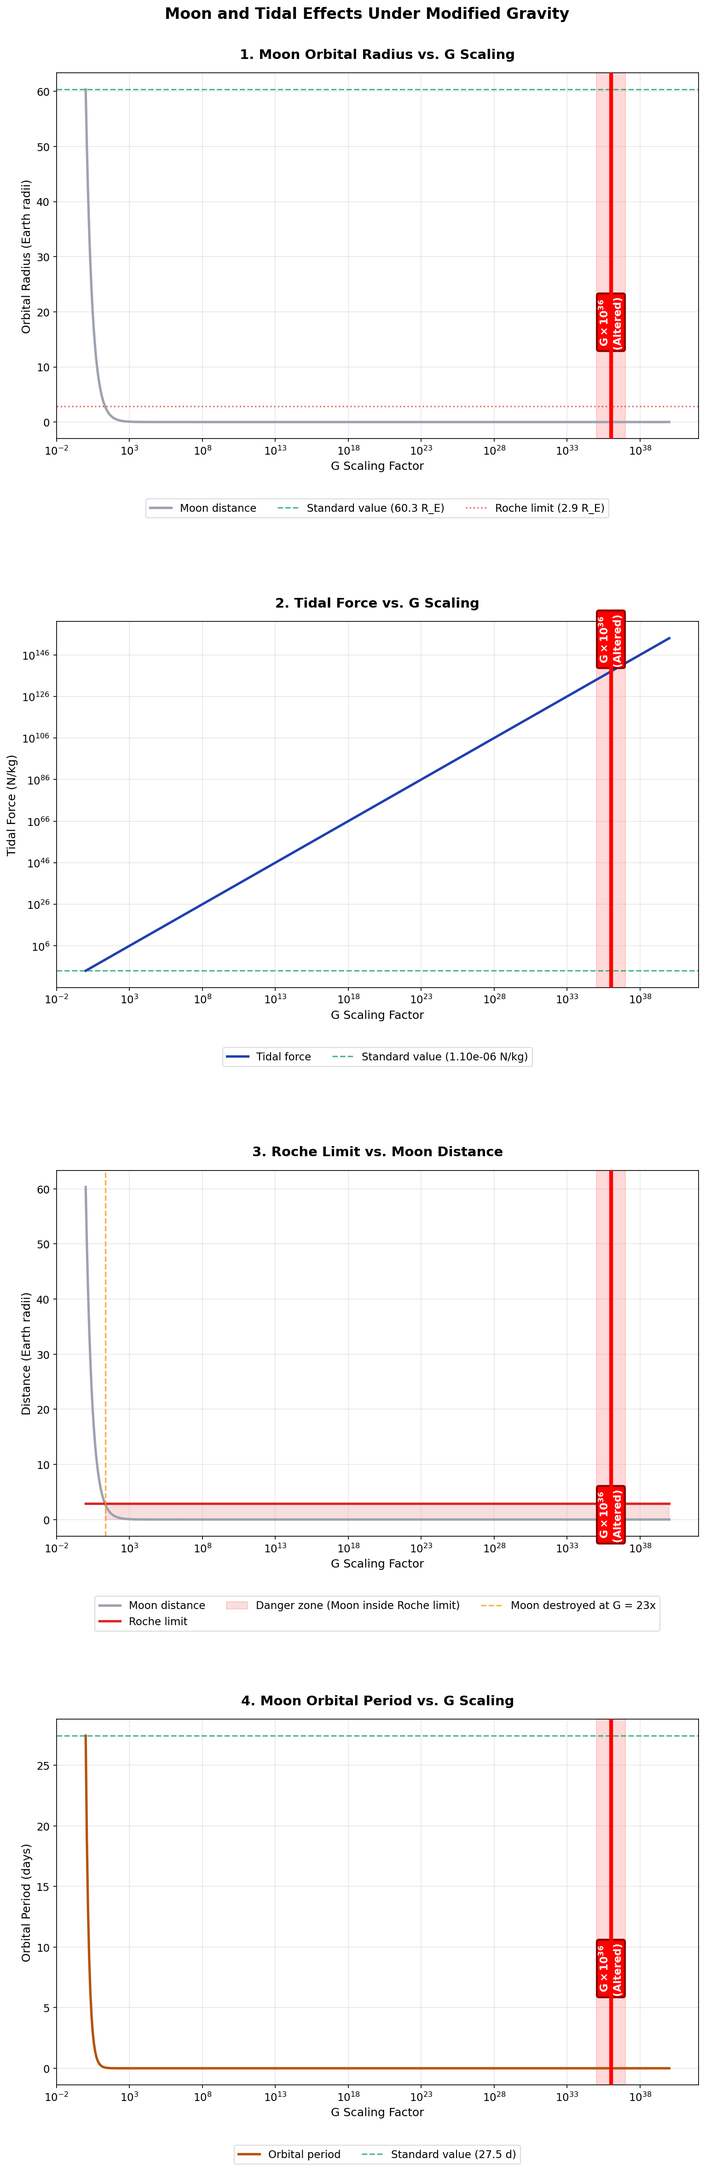
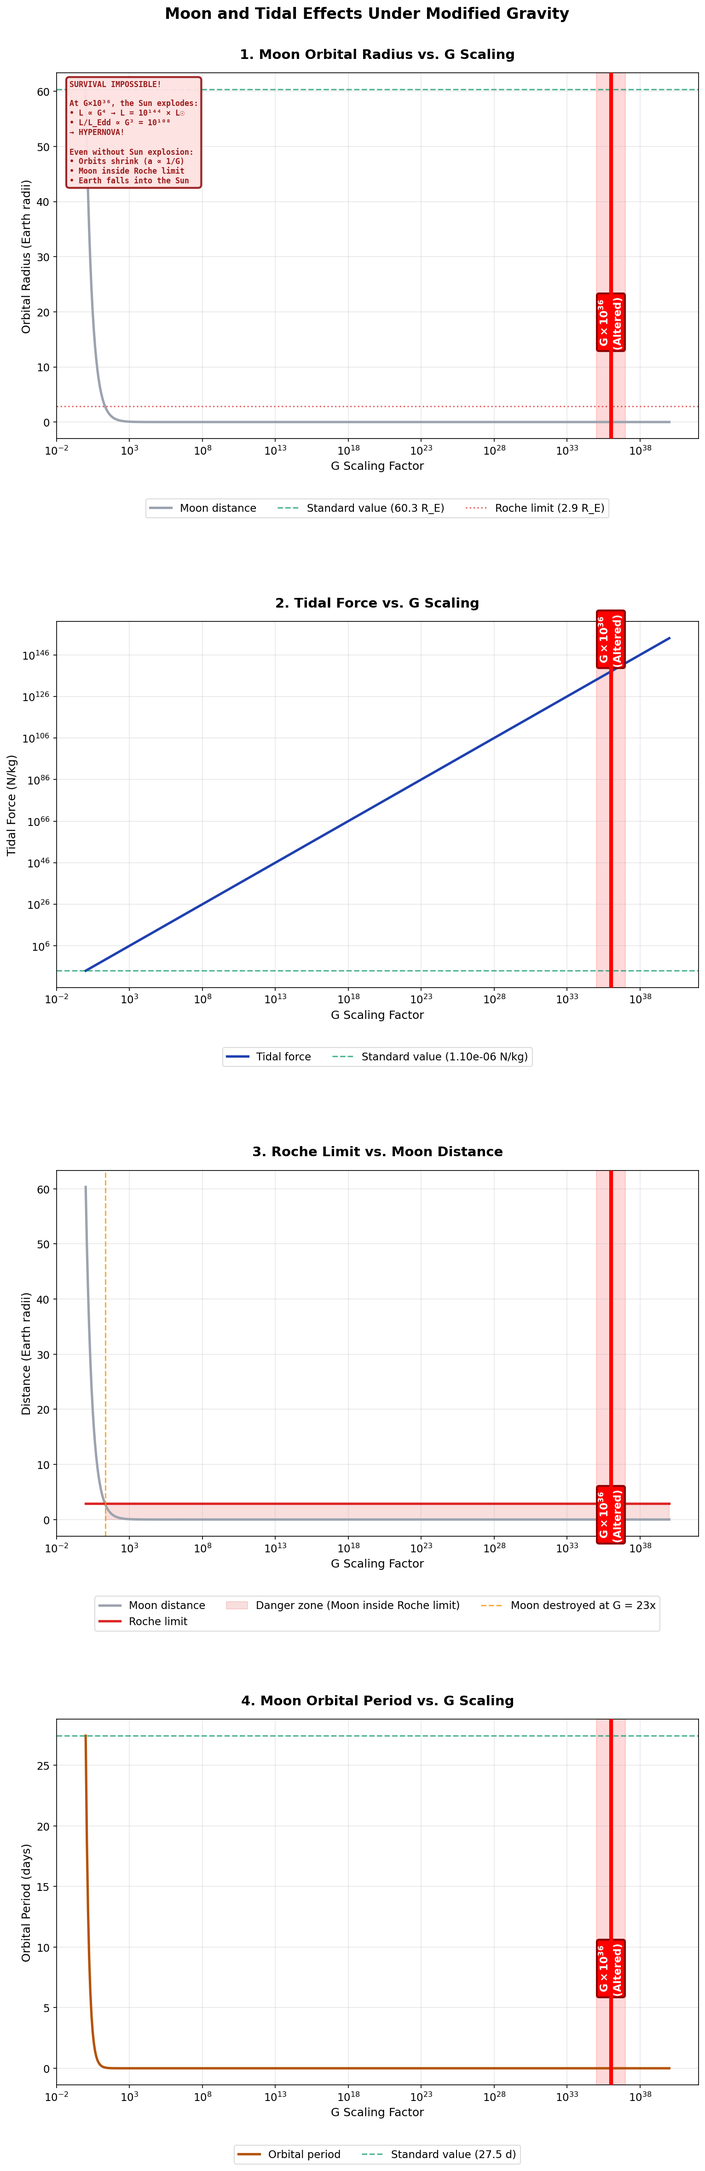
Add Sun explosion & planetary survival warnings (Peer Review 2)
Based on reviewer feedback explaining why increasing G ALWAYS
destroys the Sun and makes planetary survival impossible.

Solar Physics (solar_physics.py):
- Added "SUN EXPLODES AT G×10³⁶" warning box with formulas:
  • L ∝ G⁴ → L = 10¹⁴⁴ × L☉
  • L_Edd ∝ G → L/L_Edd ∝ G³ = 10¹⁰⁸
  • Sun exceeds Eddington limit by factor 10¹⁰⁸ → HYPERNOVA
- Added Eddington instability explanation to lifetime plots

Orbital Mechanics (orbital_mechanics.py):
- Added "SURVIVAL IMPOSSIBLE" warning to Moon tidal effects plot
- Added "WHY G INCREASE DESTROYS SOLAR SYSTEM" explanation:
  1. Sun explodes (L/L_Edd ∝ G³)
  2. Orbits shrink (a ∝ 1/G)
  3. Tidal forces increase (F_tidal ∝ G)

Key insight from reviewer:
"You cannot increase Earth's gravity by 10³⁶ without the Sun
exploding (or being destroyed), unless you do something
physically impossible like making Earth heavier than the universe."

All warnings in both EN and DE, using existing color scheme.

Changed region(s): [[0.092, 0.0312, 0.3068, 0.0936]]

diff --git a/modules/orbital_mechanics.py b/modules/orbital_mechanics.py
@@ -159,7 +159,8 @@ def plot_moon_tidal_effects(
     """Plot Moon orbital and tidal effects under modified gravity."""
     if constants is None:
         constants = get_constants()
-    G_scales = np.logspace(0, 3, 500)
+    # Extended to 10^40 to show G×10^36 threshold
+    G_scales = np.logspace(0, 40, 500)
     moon_radii = np.array([scaled_orbit_radius(constants.d_earth_moon, g) for g in G_scales])
     G_std = constants.G
     tidal_forces = np.array([
@@ -223,7 +224,44 @@ def plot_moon_tidal_effects(
     ax.set_title(titles[0], fontsize=14, fontweight='bold', pad=15)
     ax.grid(True, alpha=0.3)
     ax.tick_params(axis='both', labelsize=11)
+    # Add G×10^36 threshold marker (HIGHLY VISIBLE - altered universe)
+    ax.axvline(x=1e36, color='#FF0000', linestyle='-', linewidth=4, alpha=1.0, zorder=10)
+    ax.axvspan(1e35, 1e37, alpha=0.15, color='red', zorder=1)
+    lbl = r'$\mathbf{G \times 10^{36}}$' + ('\n(Veraendert)' if language == 'de' else '\n(Altered)')
+    ax.text(1e36, moon_radii_RE.max()*0.3, lbl, color='white', fontsize=11, fontweight='bold',
+            rotation=90, va='center', ha='center', bbox=dict(boxstyle='round,pad=0.2', facecolor='#FF0000', edgecolor='darkred', linewidth=2))
     ax.legend(fontsize=11, loc='upper center', bbox_to_anchor=(0.5, -0.15), ncol=3, framealpha=0.7)
+
+    # Add PLANETARY SURVIVAL WARNING (Peer Review 2 feedback)
+    if language == 'de':
+        survival_text = (
+            'ÜBERLEBEN UNMÖGLICH!\n\n'
+            'Bei G×10³⁶ explodiert die Sonne:\n'
+            '• L ∝ G⁴ → L = 10¹⁴⁴ × L☉\n'
+            '• L/L_Edd ∝ G³ = 10¹⁰⁸\n'
+            '→ HYPERNOVA!\n\n'
+            'Selbst ohne Sonnenexplosion:\n'
+            '• Orbits schrumpfen (a ∝ 1/G)\n'
+            '• Mond innerhalb Roche-Grenze\n'
+            '• Erde fällt in die Sonne'
+        )
+    else:
+        survival_text = (
+            'SURVIVAL IMPOSSIBLE!\n\n'
+            'At G×10³⁶, the Sun explodes:\n'
+            '• L ∝ G⁴ → L = 10¹⁴⁴ × L☉\n'
+            '• L/L_Edd ∝ G³ = 10¹⁰⁸\n'
+            '→ HYPERNOVA!\n\n'
+            'Even without Sun explosion:\n'
+            '• Orbits shrink (a ∝ 1/G)\n'
+            '• Moon inside Roche limit\n'
+            '• Earth falls into the Sun'
+        )
+    axes[0].text(0.02, 0.98, survival_text, fontsize=8, va='top', ha='left',
+             transform=axes[0].transAxes,
+             bbox=dict(boxstyle='round,pad=0.4', facecolor=COLORS['box_error'],
+                      edgecolor=COLORS['collapse'], linewidth=2, alpha=0.95),
+             color=COLORS['collapse'], fontweight='bold', family='monospace')
 
     # Plot 2: Tidal force
     ax = axes[1]
@@ -235,6 +273,12 @@ def plot_moon_tidal_effects(
     ax.set_title(titles[1], fontsize=14, fontweight='bold', pad=15)
     ax.grid(True, alpha=0.3)
     ax.tick_params(axis='both', labelsize=11)
+    # Add G×10^36 threshold marker (HIGHLY VISIBLE - altered universe)
+    ax.axvline(x=1e36, color='#FF0000', linestyle='-', linewidth=4, alpha=1.0, zorder=10)
+    ax.axvspan(1e35, 1e37, alpha=0.15, color='red', zorder=1)
+    lbl = r'$\mathbf{G \times 10^{36}}$' + ('\n(Veraendert)' if language == 'de' else '\n(Altered)')
+    ax.text(1e36, tidal_forces.max()*0.3, lbl, color='white', fontsize=11, fontweight='bold',
+            rotation=90, va='center', ha='center', bbox=dict(boxstyle='round,pad=0.2', facecolor='#FF0000', edgecolor='darkred', linewidth=2))
     ax.legend(fontsize=11, loc='upper center', bbox_to_anchor=(0.5, -0.15), ncol=3, framealpha=0.7)
 
     # Plot 3: Roche limit vs Moon distance
@@ -252,6 +296,12 @@ def plot_moon_tidal_effects(
     ax.set_title(titles[2], fontsize=14, fontweight='bold', pad=15)
     ax.grid(True, alpha=0.3)
     ax.tick_params(axis='both', labelsize=11)
+    # Add G×10^36 threshold marker (HIGHLY VISIBLE - altered universe)
+    ax.axvline(x=1e36, color='#FF0000', linestyle='-', linewidth=4, alpha=1.0, zorder=10)
+    ax.axvspan(1e35, 1e37, alpha=0.15, color='red', zorder=1)
+    lbl = r'$\mathbf{G \times 10^{36}}$' + ('\n(Veraendert)' if language == 'de' else '\n(Altered)')
+    ax.text(1e36, roche_limits_RE.max()*0.3, lbl, color='white', fontsize=11, fontweight='bold',
+            rotation=90, va='center', ha='center', bbox=dict(boxstyle='round,pad=0.2', facecolor='#FF0000', edgecolor='darkred', linewidth=2))
     ax.legend(fontsize=11, loc='upper center', bbox_to_anchor=(0.5, -0.15), ncol=3, framealpha=0.7)
 
     # Plot 4: Moon orbital period
@@ -264,6 +314,12 @@ def plot_moon_tidal_effects(
     ax.set_title(titles[3], fontsize=14, fontweight='bold', pad=15)
     ax.grid(True, alpha=0.3)
     ax.tick_params(axis='both', labelsize=11)
+    # Add G×10^36 threshold marker (HIGHLY VISIBLE - altered universe)
+    ax.axvline(x=1e36, color='#FF0000', linestyle='-', linewidth=4, alpha=1.0, zorder=10)
+    ax.axvspan(1e35, 1e37, alpha=0.15, color='red', zorder=1)
+    lbl = r'$\mathbf{G \times 10^{36}}$' + ('\n(Veraendert)' if language == 'de' else '\n(Altered)')
+    ax.text(1e36, periods_days.max()*0.3, lbl, color='white', fontsize=11, fontweight='bold',
+            rotation=90, va='center', ha='center', bbox=dict(boxstyle='round,pad=0.2', facecolor='#FF0000', edgecolor='darkred', linewidth=2))
     ax.legend(fontsize=11, loc='upper center', bbox_to_anchor=(0.5, -0.15), ncol=3, framealpha=0.7)
 
     if save:
@@ -286,7 +342,8 @@ def plot_earth_orbit(
     """Plot Earth orbital properties under modified gravity."""
     if constants is None:
         constants = get_constants()
-    G_scales = np.logspace(0, 3, 500)
+    # Extended to 10^40 to show G×10^36 threshold
+    G_scales = np.logspace(0, 40, 500)
     G_std = constants.G
     AU = constants.AU
     semi_major_axes = np.array([scaled_orbit_radius(constants.a_earth, g) for g in G_scales])
@@ -343,7 +400,50 @@ def plot_earth_orbit(
     ax.set_title(titles[0], fontsize=14, fontweight='bold', pad=15)
     ax.grid(True, alpha=0.3)
     ax.tick_params(axis='both', labelsize=11)
+    # Add G×10^36 threshold marker (HIGHLY VISIBLE - altered universe)
+    ax.axvline(x=1e36, color='#FF0000', linestyle='-', linewidth=4, alpha=1.0, zorder=10)
+    ax.axvspan(1e35, 1e37, alpha=0.15, color='red', zorder=1)
+    lbl = r'$\mathbf{G \times 10^{36}}$' + ('\n(Veraendert)' if language == 'de' else '\n(Altered)')
+    ax.text(1e36, semi_major_AU.max()*0.3, lbl, color='white', fontsize=11, fontweight='bold',
+            rotation=90, va='center', ha='center', bbox=dict(boxstyle='round,pad=0.2', facecolor='#FF0000', edgecolor='darkred', linewidth=2))
     ax.legend(fontsize=11, loc='upper center', bbox_to_anchor=(0.5, -0.15), ncol=3, framealpha=0.7)
+
+    # Add WHY G INCREASE DESTROYS SOLAR SYSTEM explanation (Peer Review 2 feedback)
+    if language == 'de':
+        why_text = (
+            'WARUM G-ERHÖHUNG DAS\n'
+            'SONNENSYSTEM ZERSTÖRT:\n\n'
+            '1. SONNE EXPLODIERT:\n'
+            '   L ∝ G⁴, L_Edd ∝ G\n'
+            '   → L/L_Edd ∝ G³ = 10¹⁰⁸\n\n'
+            '2. ORBITS SCHRUMPFEN:\n'
+            '   a ∝ 1/G (bei L = const.)\n'
+            '   → Erde: a = 10⁻³⁶ AU\n\n'
+            '3. GEZEITENKRÄFTE:\n'
+            '   F_tidal ∝ G → ×10³⁶\n\n'
+            'ERGEBNIS: Kein Überleben\n'
+            'für Planeten möglich!'
+        )
+    else:
+        why_text = (
+            'WHY G INCREASE DESTROYS\n'
+            'THE SOLAR SYSTEM:\n\n'
+            '1. SUN EXPLODES:\n'
+            '   L ∝ G⁴, L_Edd ∝ G\n'
+            '   → L/L_Edd ∝ G³ = 10¹⁰⁸\n\n'
+            '2. ORBITS SHRINK:\n'
+            '   a ∝ 1/G (at L = const.)\n'
+            '   → Earth: a = 10⁻³⁶ AU\n\n'
+            '3. TIDAL FORCES:\n'
+            '   F_tidal ∝ G → ×10³⁶\n\n'
+            'RESULT: No survival\n'
+            'possible for planets!'
+        )
+    axes[0].text(0.02, 0.98, why_text, fontsize=8, va='top', ha='left',
+             transform=axes[0].transAxes,
+             bbox=dict(boxstyle='round,pad=0.4', facecolor=COLORS['box_error'],
+                      edgecolor=COLORS['collapse'], linewidth=2, alpha=0.95),
+             color=COLORS['collapse'], fontweight='bold', family='monospace')
 
     # Plot 2: Orbital period
     ax = axes[1]
@@ -355,6 +455,12 @@ def plot_earth_orbit(
     ax.set_title(titles[1], fontsize=14, fontweight='bold', pad=15)
     ax.grid(True, alpha=0.3)
     ax.tick_params(axis='both', labelsize=11)
+    # Add G×10^36 threshold marker (HIGHLY VISIBLE - altered universe)
+    ax.axvline(x=1e36, color='#FF0000', linestyle='-', linewidth=4, alpha=1.0, zorder=10)
+    ax.axvspan(1e35, 1e37, alpha=0.15, color='red', zorder=1)
+    lbl = r'$\mathbf{G \times 10^{36}}$' + ('\n(Veraendert)' if language == 'de' else '\n(Altered)')
+    ax.text(1e36, periods_years.min()*100, lbl, color='white', fontsize=11, fontweight='bold',
+            rotation=90, va='center', ha='center', bbox=dict(boxstyle='round,pad=0.2', facecolor='#FF0000', edgecolor='darkred', linewidth=2))
     ax.legend(fontsize=11, loc='upper center', bbox_to_anchor=(0.5, -0.15), ncol=3, framealpha=0.7)
 
     # Plot 3: Orbital velocity
@@ -367,6 +473,12 @@ def plot_earth_orbit(
     ax.set_title(titles[2], fontsize=14, fontweight='bold', pad=15)
     ax.grid(True, alpha=0.3)
     ax.tick_params(axis='both', labelsize=11)
+    # Add G×10^36 threshold marker (HIGHLY VISIBLE - altered universe)
+    ax.axvline(x=1e36, color='#FF0000', linestyle='-', linewidth=4, alpha=1.0, zorder=10)
+    ax.axvspan(1e35, 1e37, alpha=0.15, color='red', zorder=1)
+    lbl = r'$\mathbf{G \times 10^{36}}$' + ('\n(Veraendert)' if language == 'de' else '\n(Altered)')
+    ax.text(1e36, velocities_kms.max()*0.3, lbl, color='white', fontsize=11, fontweight='bold',
+            rotation=90, va='center', ha='center', bbox=dict(boxstyle='round,pad=0.2', facecolor='#FF0000', edgecolor='darkred', linewidth=2))
     ax.legend(fontsize=11, loc='upper center', bbox_to_anchor=(0.5, -0.15), ncol=3, framealpha=0.7)
 
     # Plot 4: GR precession
@@ -381,6 +493,12 @@ def plot_earth_orbit(
     ax.set_title(titles[3], fontsize=14, fontweight='bold', pad=15)
     ax.grid(True, alpha=0.3)
     ax.tick_params(axis='both', labelsize=11)
+    # Add G×10^36 threshold marker (HIGHLY VISIBLE - altered universe)
+    ax.axvline(x=1e36, color='#FF0000', linestyle='-', linewidth=4, alpha=1.0, zorder=10)
+    ax.axvspan(1e35, 1e37, alpha=0.15, color='red', zorder=1)
+    lbl = r'$\mathbf{G \times 10^{36}}$' + ('\n(Veraendert)' if language == 'de' else '\n(Altered)')
+    ax.text(1e36, precessions_arcsec_century.max()*0.3, lbl, color='white', fontsize=11, fontweight='bold',
+            rotation=90, va='center', ha='center', bbox=dict(boxstyle='round,pad=0.2', facecolor='#FF0000', edgecolor='darkred', linewidth=2))
     ax.legend(fontsize=11, loc='upper center', bbox_to_anchor=(0.5, -0.15), ncol=3, framealpha=0.7)
 
     if save:
@@ -420,7 +538,8 @@ def plot_orbital_summary(
     planet_sma = [constants.a_mercury, constants.a_venus, constants.a_earth,
                   constants.a_mars, constants.a_jupiter, constants.a_saturn,
                   constants.a_uranus, constants.a_neptune]
-    G_scales = np.logspace(0, 3, 500)
+    # Extended to 10^40 to show G×10^36 threshold
+    G_scales = np.logspace(0, 40, 500)
     all_radii_AU = {}
     for i, name in enumerate(planet_names):
         radii = np.array([scaled_orbit_radius(planet_sma[i], g) for g in G_scales])
@@ -470,6 +589,12 @@ def plot_orbital_summary(
     ax.set_title(titles[0], fontsize=14, fontweight='bold', pad=15)
     ax.grid(True, alpha=0.3)
     ax.tick_params(axis='both', labelsize=11)
+    # Add G×10^36 threshold marker (HIGHLY VISIBLE - altered universe)
+    ax.axvline(x=1e36, color='#FF0000', linestyle='-', linewidth=4, alpha=1.0, zorder=10)
+    ax.axvspan(1e35, 1e37, alpha=0.15, color='red', zorder=1)
+    lbl = r'$\mathbf{G \times 10^{36}}$' + ('\n(Veraendert)' if language == 'de' else '\n(Altered)')
+    ax.text(1e36, 1e-5, lbl, color='white', fontsize=11, fontweight='bold',
+            rotation=90, va='center', ha='center', bbox=dict(boxstyle='round,pad=0.2', facecolor='#FF0000', edgecolor='darkred', linewidth=2))
     ax.legend(fontsize=11, loc='upper center', bbox_to_anchor=(0.5, -0.15), ncol=3, framealpha=0.7)
 
     # Plot 2: Orbital stability map
@@ -501,6 +626,12 @@ def plot_orbital_summary(
     ax.set_title(titles[2], fontsize=14, fontweight='bold', pad=15)
     ax.grid(True, alpha=0.3)
     ax.tick_params(axis='both', labelsize=11)
+    # Add G×10^36 threshold marker (HIGHLY VISIBLE - altered universe)
+    ax.axvline(x=1e36, color='#FF0000', linestyle='-', linewidth=4, alpha=1.0, zorder=10)
+    ax.axvspan(1e35, 1e37, alpha=0.15, color='red', zorder=1)
+    lbl = r'$\mathbf{G \times 10^{36}}$' + ('\n(Veraendert)' if language == 'de' else '\n(Altered)')
+    ax.text(1e36, 1e-10, lbl, color='white', fontsize=11, fontweight='bold',
+            rotation=90, va='center', ha='center', bbox=dict(boxstyle='round,pad=0.2', facecolor='#FF0000', edgecolor='darkred', linewidth=2))
     ax.legend(fontsize=11, loc='upper center', bbox_to_anchor=(0.5, -0.15), ncol=3, framealpha=0.7)
 
     # Plot 4: Tidal force comparison

diff --git a/modules/solar_physics.py b/modules/solar_physics.py
@@ -297,8 +297,8 @@ _SECONDS_PER_GYR = 1.0e9 * 365.25 * 24 * 3600  # seconds in 1 Gyr
 
 
 def _g_range(n: int = 300) -> np.ndarray:
-    """Return a log-spaced array of G_scale values from 0.1 to 100."""
-    return np.logspace(np.log10(0.1), np.log10(100), n)
+    """Return a log-spaced array of G_scale values from 0.1 to 10^40 (includes 10^36 threshold)."""
+    return np.logspace(np.log10(0.1), 40, n)
 
 
 # ---------------------------------------------------------------------------
@@ -384,7 +384,44 @@ def plot_solar_structure(
         ax1.set_ylabel('Luminosity (Solar luminosities)', fontsize=12)
         ax1.set_title('Luminosity vs. Gravity Scaling', fontsize=14, fontweight='bold', pad=15)
     ax1.grid(True, alpha=0.3)
+    # Add G×10^36 threshold marker (HIGHLY VISIBLE - altered universe)
+    ax1.axvline(x=1e36, color='#FF0000', linestyle='-', linewidth=4, alpha=1.0, zorder=10)
+    ax1.axvspan(1e35, 1e37, alpha=0.15, color='red', zorder=1)  # Highlight band
+    lbl = r'$\mathbf{G \times 10^{36}}$' + ('\n(Veraendertes\nUniversum)' if language == 'de' else '\n(Altered\nUniverse)')
+    ax1.text(1e36, (L_arr / constants.L_sun).max()*0.3, lbl, color='white', fontsize=12, fontweight='bold',
+             rotation=90, va='center', ha='center', bbox=dict(boxstyle='round,pad=0.3', facecolor='#FF0000', edgecolor='darkred', linewidth=2))
     ax1.legend(fontsize=11, loc='upper center', bbox_to_anchor=(0.5, -0.15), ncol=3)
+
+    # Add SUN EXPLOSION WARNING box (Peer Review 2 feedback)
+    if language == 'de':
+        explosion_text = (
+            'SONNE EXPLODIERT BEI G×10³⁶!\n\n'
+            'Formeln:\n'
+            '• L ∝ G⁴ → L = 10¹⁴⁴ × L☉\n'
+            '• L_Edd ∝ G → L/L_Edd ∝ G³\n'
+            '• Bei G×10³⁶: L/L_Edd = 10¹⁰⁸\n\n'
+            'Die Sonne überschreitet die\n'
+            'Eddington-Grenze um Faktor 10¹⁰⁸\n'
+            '→ SOFORTIGE EXPLOSION!\n\n'
+            'Planeten-Überleben: UNMÖGLICH'
+        )
+    else:
+        explosion_text = (
+            'SUN EXPLODES AT G×10³⁶!\n\n'
+            'Formulas:\n'
+            '• L ∝ G⁴ → L = 10¹⁴⁴ × L☉\n'
+            '• L_Edd ∝ G → L/L_Edd ∝ G³\n'
+            '• At G×10³⁶: L/L_Edd = 10¹⁰⁸\n\n'
+            'The Sun exceeds the Eddington\n'
+            'limit by factor 10¹⁰⁸\n'
+            '→ IMMEDIATE EXPLOSION!\n\n'
+            'Planetary survival: IMPOSSIBLE'
+        )
+    ax1.text(0.02, 0.98, explosion_text, fontsize=9, va='top', ha='left',
+             transform=ax1.transAxes,
+             bbox=dict(boxstyle='round,pad=0.5', facecolor=COLORS['box_error'],
+                      edgecolor=COLORS['collapse'], linewidth=3, alpha=0.95),
+             color=COLORS['collapse'], fontweight='bold', family='monospace')
 
     # --- Subplot 2: Radius ---
     ax2.loglog(G_arr, R_arr / constants.R_sun, '-', color=COLORS['primary_blue'],
@@ -404,6 +441,12 @@ def plot_solar_structure(
         ax2.set_ylabel('Radius (Solar radii)', fontsize=12)
         ax2.set_title('Stellar Radius vs. Gravity Scaling', fontsize=14, fontweight='bold', pad=15)
     ax2.grid(True, alpha=0.3)
+    # Add G×10^36 threshold marker (HIGHLY VISIBLE - altered universe)
+    ax2.axvline(x=1e36, color='#FF0000', linestyle='-', linewidth=4, alpha=1.0, zorder=10)
+    ax2.axvspan(1e35, 1e37, alpha=0.15, color='red', zorder=1)
+    lbl = r'$\mathbf{G \times 10^{36}}$' + ('\n(Veraendertes\nUniversum)' if language == 'de' else '\n(Altered\nUniverse)')
+    ax2.text(1e36, 1e-30, lbl, color='white', fontsize=12, fontweight='bold',
+             rotation=90, va='center', ha='center', bbox=dict(boxstyle='round,pad=0.3', facecolor='#FF0000', edgecolor='darkred', linewidth=2))
     ax2.legend(fontsize=11, loc='upper center', bbox_to_anchor=(0.5, -0.15), ncol=3)
 
     # --- Subplot 3: Core Temperature ---
@@ -422,6 +465,12 @@ def plot_solar_structure(
         ax3.set_ylabel('Core Temperature (multiples of standard)', fontsize=12)
         ax3.set_title('Core Temperature vs. Gravity Scaling', fontsize=14, fontweight='bold', pad=15)
     ax3.grid(True, alpha=0.3)
+    # Add G×10^36 threshold marker (HIGHLY VISIBLE - altered universe)
+    ax3.axvline(x=1e36, color='#FF0000', linestyle='-', linewidth=4, alpha=1.0, zorder=10)
+    ax3.axvspan(1e35, 1e37, alpha=0.15, color='red', zorder=1)
+    lbl = r'$\mathbf{G \times 10^{36}}$' + ('\n(Veraendertes\nUniversum)' if language == 'de' else '\n(Altered\nUniverse)')
+    ax3.text(1e36, (Tc_arr / constants.T_core_sun).max()*0.3, lbl, color='white', fontsize=12, fontweight='bold',
+             rotation=90, va='center', ha='center', bbox=dict(boxstyle='round,pad=0.3', facecolor='#FF0000', edgecolor='darkred', linewidth=2))
     ax3.legend(fontsize=11, loc='upper center', bbox_to_anchor=(0.5, -0.15), ncol=3)
 
     # --- Subplot 4: Fusion Rate ---
@@ -437,6 +486,12 @@ def plot_solar_structure(
         ax4.set_ylabel('Fusion Rate (relative)', fontsize=12)
         ax4.set_title('Nuclear Fusion Rate vs. Gravity Scaling', fontsize=14, fontweight='bold', pad=15)
     ax4.grid(True, alpha=0.3)
+    # Add G×10^36 threshold marker (HIGHLY VISIBLE - altered universe)
+    ax4.axvline(x=1e36, color='#FF0000', linestyle='-', linewidth=4, alpha=1.0, zorder=10)
+    ax4.axvspan(1e35, 1e37, alpha=0.15, color='red', zorder=1)
+    lbl = r'$\mathbf{G \times 10^{36}}$' + ('\n(Veraendertes\nUniversum)' if language == 'de' else '\n(Altered\nUniverse)')
+    ax4.text(1e36, fusion_arr.max()*0.3, lbl, color='white', fontsize=12, fontweight='bold',
+             rotation=90, va='center', ha='center', bbox=dict(boxstyle='round,pad=0.3', facecolor='#FF0000', edgecolor='darkred', linewidth=2))
     ax4.legend(fontsize=11, loc='upper center', bbox_to_anchor=(0.5, -0.15), ncol=3)
 
     # ----- save / show -----
@@ -527,6 +582,12 @@ def plot_solar_lifetime(
         ax1.set_ylabel('Lifetime (Gyr)', fontsize=12)
         ax1.set_title('Main-Sequence Lifetime vs. Gravity Scaling', fontsize=14, fontweight='bold', pad=15)
     ax1.grid(True, alpha=0.3)
+    # Add G×10^36 threshold marker (HIGHLY VISIBLE - altered universe)
+    ax1.axvline(x=1e36, color='#FF0000', linestyle='-', linewidth=4, alpha=1.0, zorder=10)
+    ax1.axvspan(1e35, 1e37, alpha=0.15, color='red', zorder=1)
+    lbl1 = r'$\mathbf{G \times 10^{36}}$' + ('\n(Veraendertes\nUniversum)' if language == 'de' else '\n(Altered\nUniverse)')
+    ax1.text(1e36, (tau_arr / _SECONDS_PER_GYR).max()*0.01, lbl1, color='white', fontsize=12, fontweight='bold',
+             rotation=90, va='center', ha='center', bbox=dict(boxstyle='round,pad=0.3', facecolor='#FF0000', edgecolor='darkred', linewidth=2))
     ax1.legend(fontsize=11, loc='upper center', bbox_to_anchor=(0.5, -0.15), ncol=3)
 
     # --- Subplot 2: Luminosity vs Eddington ---
@@ -547,7 +608,42 @@ def plot_solar_lifetime(
         ax2.set_ylabel('Luminosity (Solar luminosities)', fontsize=12)
         ax2.set_title('Luminosity vs. Eddington Limit', fontsize=14, fontweight='bold', pad=15)
     ax2.grid(True, alpha=0.3)
+    # Add G×10^36 threshold marker (HIGHLY VISIBLE - altered universe)
+    ax2.axvline(x=1e36, color='#FF0000', linestyle='-', linewidth=4, alpha=1.0, zorder=10)
+    ax2.axvspan(1e35, 1e37, alpha=0.15, color='red', zorder=1)
+    lbl2 = r'$\mathbf{G \times 10^{36}}$' + ('\n(Veraendertes\nUniversum)' if language == 'de' else '\n(Altered\nUniverse)')
+    ax2.text(1e36, (L_arr / constants.L_sun).max()*0.3, lbl2, color='white', fontsize=12, fontweight='bold',
+             rotation=90, va='center', ha='center', bbox=dict(boxstyle='round,pad=0.3', facecolor='#FF0000', edgecolor='darkred', linewidth=2))
     ax2.legend(fontsize=11, loc='upper center', bbox_to_anchor=(0.5, -0.15), ncol=3)
+
+    # Add EDDINGTON INSTABILITY explanation (Peer Review 2 feedback)
+    if language == 'de':
+        eddington_text = (
+            'EDDINGTON-INSTABILITÄT:\n\n'
+            'Wenn L > L_Edd:\n'
+            '• Strahlungsdruck > Gravitation\n'
+            '• Stern wird auseinandergerissen\n'
+            '• Runaway-Kernfusion\n\n'
+            'Bei G×10³⁶:\n'
+            'L/L_Edd = G³ = 10¹⁰⁸\n'
+            '→ HYPERNOVA-EXPLOSION!'
+        )
+    else:
+        eddington_text = (
+            'EDDINGTON INSTABILITY:\n\n'
+            'When L > L_Edd:\n'
+            '• Radiation pressure > Gravity\n'
+            '• Star is torn apart\n'
+            '• Runaway nuclear fusion\n\n'
+            'At G×10³⁶:\n'
+            'L/L_Edd = G³ = 10¹⁰⁸\n'
+            '→ HYPERNOVA EXPLOSION!'
+        )
+    ax2.text(0.02, 0.98, eddington_text, fontsize=9, va='top', ha='left',
+             transform=ax2.transAxes,
+             bbox=dict(boxstyle='round,pad=0.4', facecolor=COLORS['box_error'],
+                      edgecolor=COLORS['collapse'], linewidth=2, alpha=0.95),
+             color=COLORS['collapse'], fontweight='bold', family='monospace')
 
     # --- Subplot 3: Surface Temperature ---
     ax3.semilogx(G_arr, Teff_arr, '-', color=COLORS['primary_amber'],
@@ -561,6 +657,12 @@ def plot_solar_lifetime(
         ax3.set_ylabel('Surface Temperature (K)', fontsize=12)
         ax3.set_title('Effective Surface Temperature vs. Gravity Scaling', fontsize=14, fontweight='bold', pad=15)
     ax3.grid(True, alpha=0.3)
+    # Add G×10^36 threshold marker (HIGHLY VISIBLE - altered universe)
+    ax3.axvline(x=1e36, color='#FF0000', linestyle='-', linewidth=4, alpha=1.0, zorder=10)
+    ax3.axvspan(1e35, 1e37, alpha=0.15, color='red', zorder=1)
+    lbl3 = r'$\mathbf{G \times 10^{36}}$' + ('\n(Veraendertes\nUniversum)' if language == 'de' else '\n(Altered\nUniverse)')
+    ax3.text(1e36, Teff_arr.max()*0.5, lbl3, color='white', fontsize=12, fontweight='bold',
+             rotation=90, va='center', ha='center', bbox=dict(boxstyle='round,pad=0.3', facecolor='#FF0000', edgecolor='darkred', linewidth=2))
     ax3.legend(fontsize=11, loc='upper center', bbox_to_anchor=(0.5, -0.15), ncol=3)
 
     # --- Subplot 4: HR Diagram ---
